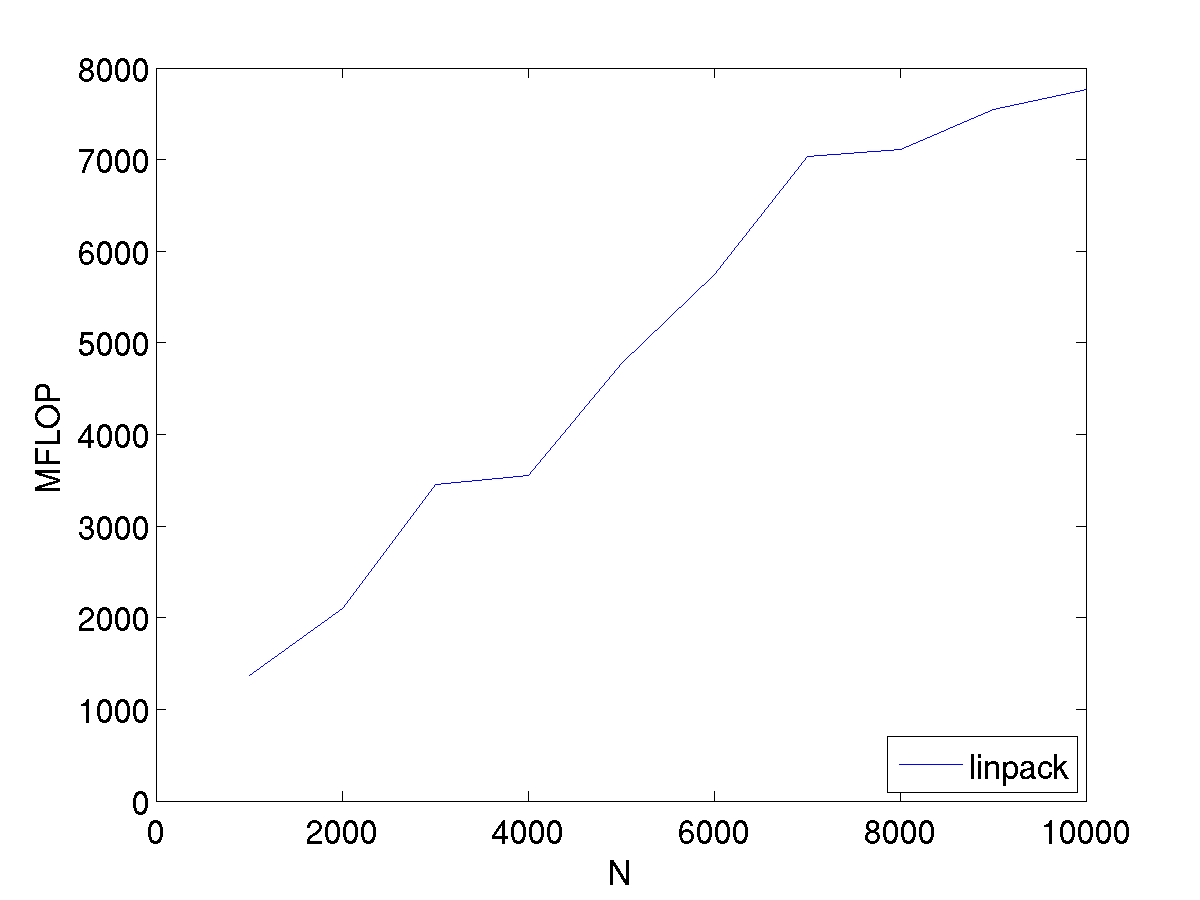
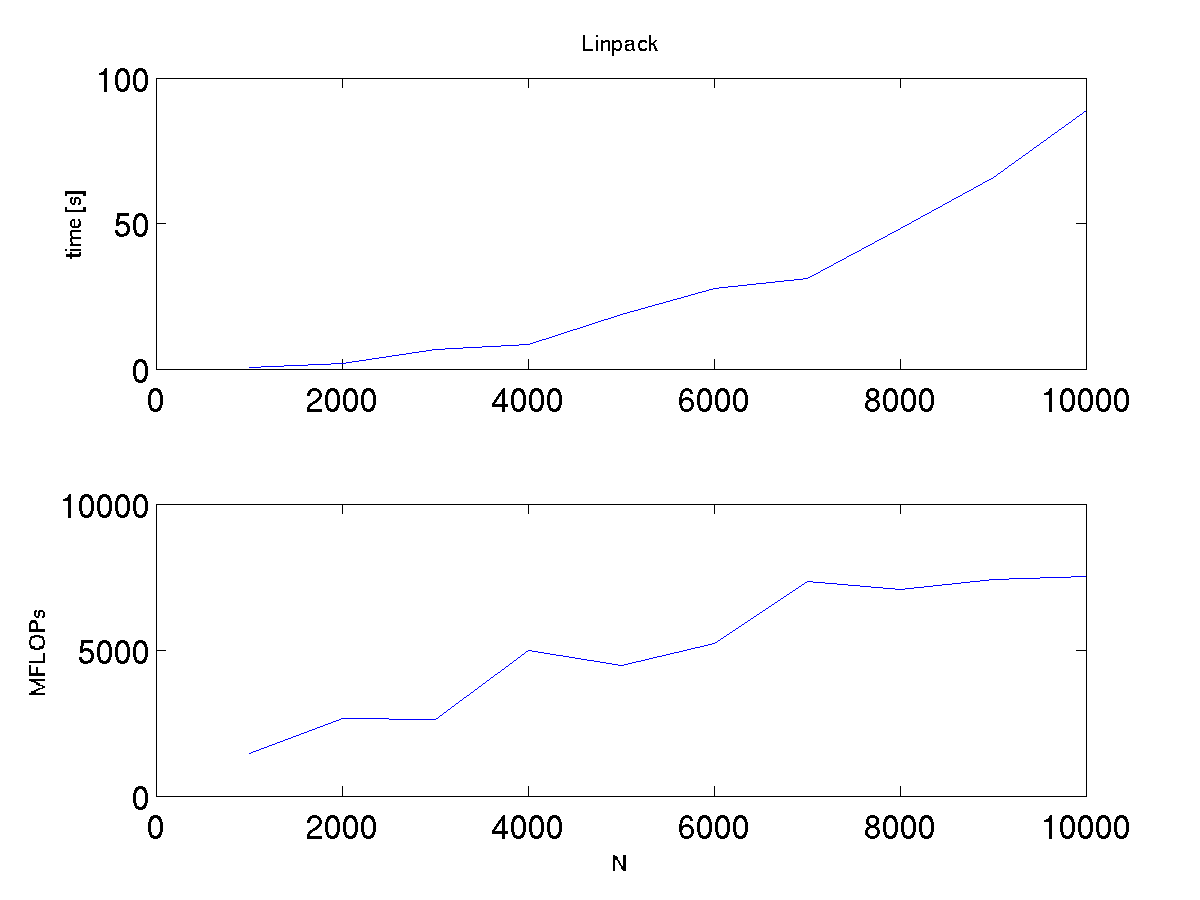
WIP: linpack scaling

diff --git a/linpack_driver.m b/linpack_driver.m
@@ -1,23 +1,29 @@
+clear all
+close all
 
 
 SizeArray = [5000:5000:100000];
+SizeArray = [1000:1000:10000];
 
-FlopPerformance = zeros(length(SizeArray ));
-TimePerformance = zeros(length(SizeArray ));
+FlopPerformance = zeros(1,length(SizeArray ));
+TimePerformance = zeros(1,length(SizeArray ));
 
 for iii = 1:length(SizeArray )
    timings = linpack_bench_backslash(SizeArray(iii));
-   FlopPerformance = timings(4);
-   TimePerformance = timings(3);
+   FlopPerformance(iii) = timings(4);
+   TimePerformance(iii) = timings(3);
 end
 
 
 handle1=figure(1);
-plot(SizeArray,FlopPerformance )
-hold
+subplot(2,1,1),plot(SizeArray,TimePerformance );
+ylabel('time [s]'  ) % axis
+title('Linpack')
 set(gca,'FontSize',16)
+subplot(2,1,2),plot(SizeArray,FlopPerformance );
+ylabel('MFLOPs') % axis
 xlabel('N')
-ylabel('MFLOPs')
-legend('linpack', 'Location','SouthEast')
+set(gca,'FontSize',16)
+
 saveas(handle1,'linpack','png')
 
